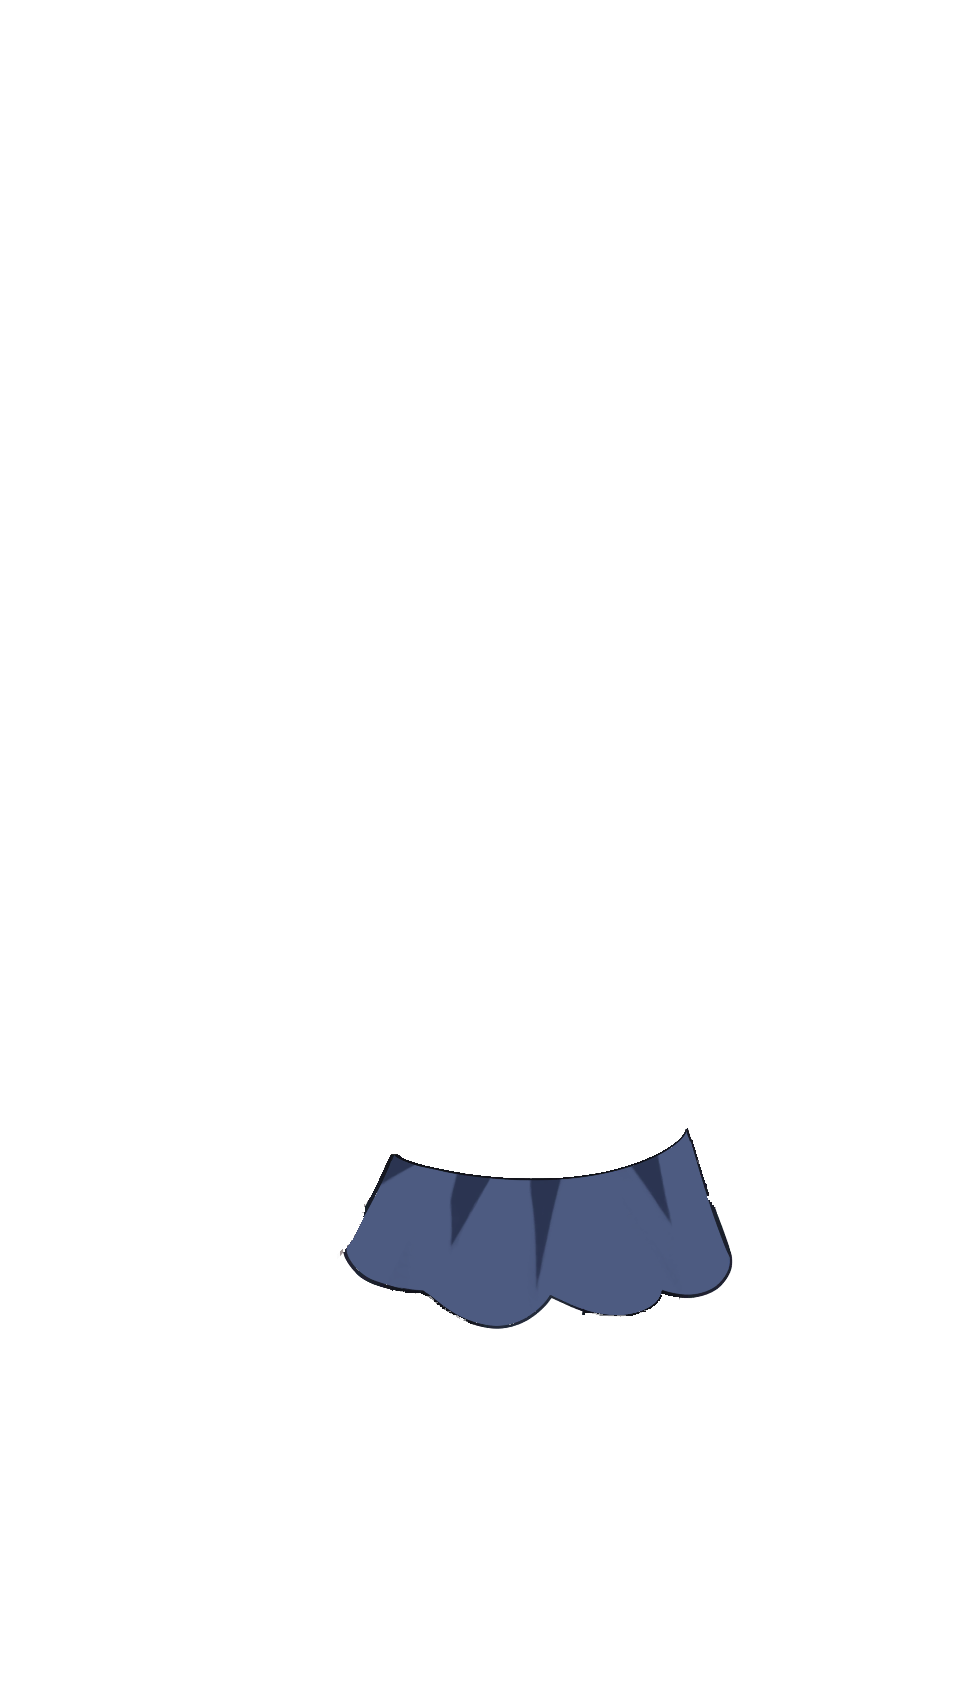
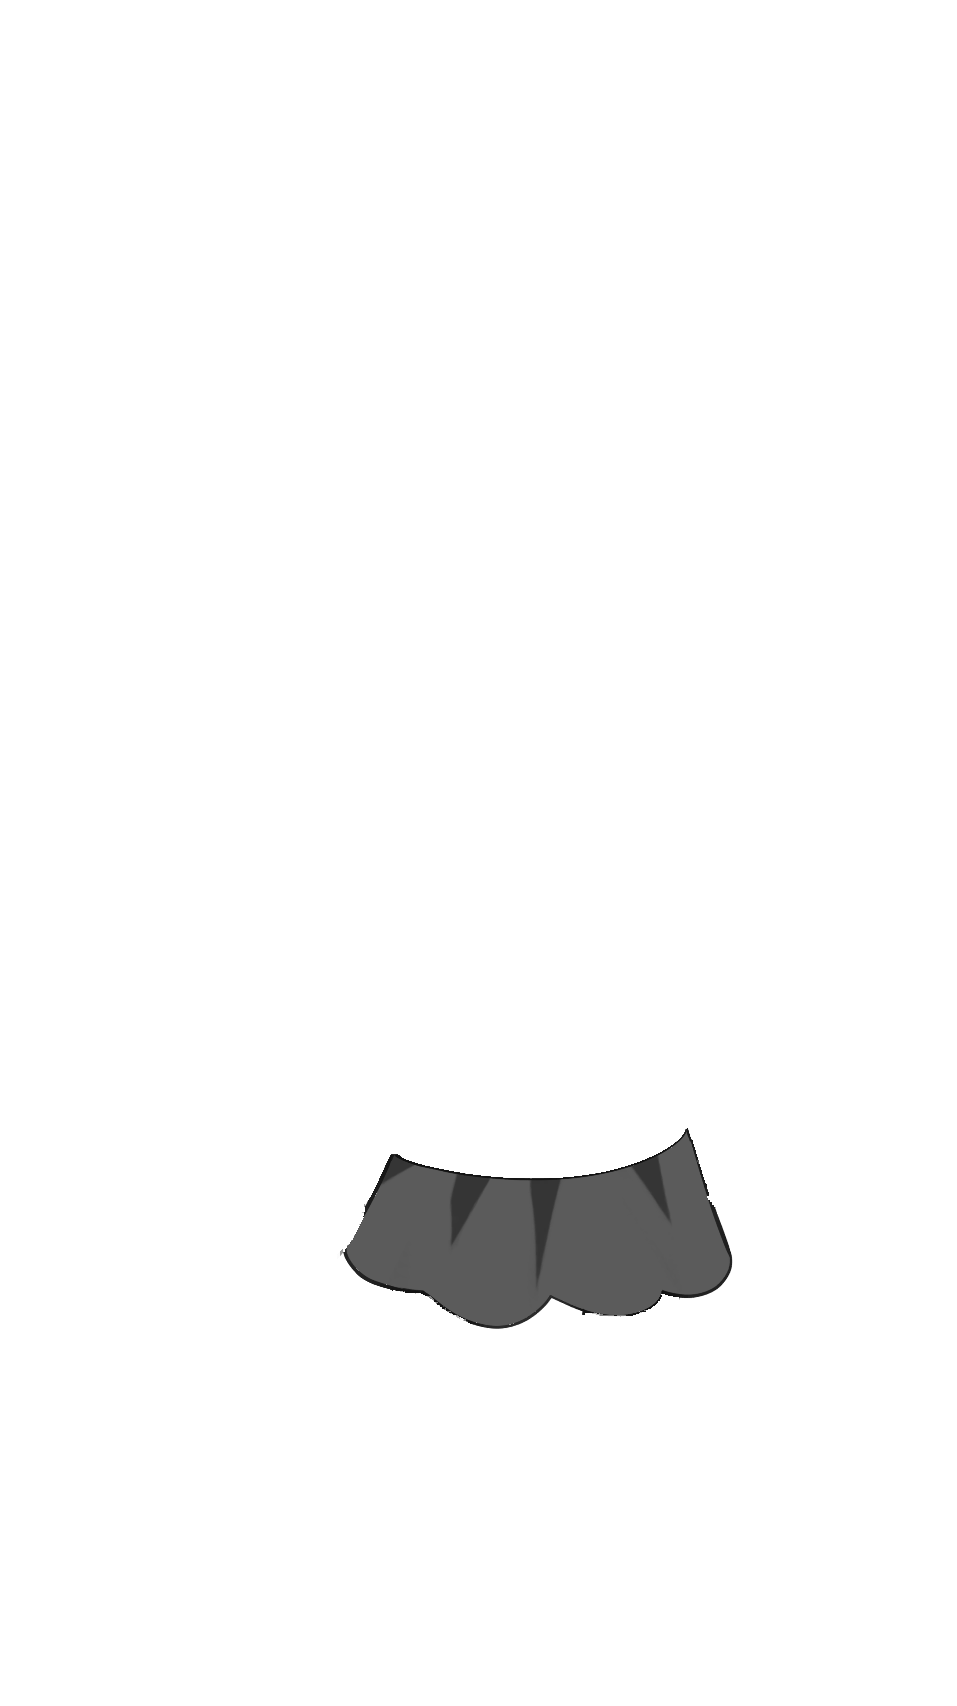
v0.0.2 release code

Changed region(s): [[0.3636, 0.6524, 0.7576, 0.7767]]

diff --git a/necov2.py b/necov2.py
@@ -1,5 +1,7 @@
+#!/usr/bin/python
+
 from random import randint
-import cv2
+import cv2, sys
 
 # TODO!
 """
@@ -9,14 +11,52 @@ add custom colors mode
 
 I = 0
 
-print("Necoarc generator v0.0.1")
+print("Necoarc generator v0.0.2")
 print()
-number = int(input("Number: "))
+print(" Mode: ")
+print(" 1) Random")
+print(" 2) Custom")
+modch = input("Mode: ")
+
+if modch=="1":
+    number = int(input("Number: "))
+elif modch=="2":
+    number = 1
+    boots = input("Boots: ")
+    hair = input("Hair: ")
+    hair_sub = input("Hair sub: ")
+    left_eye = input("Left eye: ")
+    right_eye = input("Right eye: ")
+    shirt = input("Shirt: ")
+    skirt = input("Skirt: ")
+else:
+    sys.exit(0)
+
 print("Wait...")
+
 for i in range(number):
     newarc = cv2.imread("input/body.png")
     for part in ["boots", "hair", "hair_sub", "left_eye", "right_eye", "shirt", "skirt"]:
-        cr, cg, cb = (randint(0,255), randint(0,255), randint(0,255))
+        if modch=="1":
+            cr, cg, cb = (randint(0,255), randint(0,255), randint(0,255))
+        elif modch=="2":
+            if part=="boots":
+                curcolors = boots.split(" ")
+            elif part=="hair":
+                curcolors = hair.split(" ")
+            elif part=="hair_sub":
+                curcolors = hair_sub.split(" ")
+            elif part=="left_eye":
+                curcolors = left_eye.split(" ")
+            elif part=="right_eye":
+                curcolors = right_eye.split(" ")
+            elif part=="shirt":
+                curcolors = shirt.split(" ")
+            elif part=="skirt":
+                curcolors = skirt.split(" ")
+            cr = int(curcolors[0])
+            cg = int(curcolors[1])
+            cb = int(curcolors[2])
         picture = cv2.imread("input/" + part + ".png")
         if cr+cg+cb!=0:
             height, width = tuple(picture.shape[1::-1])
@@ -24,7 +64,7 @@ for i in range(number):
                 for y in range(height):
                     r, g, b = picture[x, y]
                     if r!=0 and g!=0 and b!=0:
-                        picture[x, y] = cr-r, cg-g, cb-b
+                        picture[x, y] = r-cr, g-cg, b-cb
         newarc = cv2.add(newarc, picture)
     cv2.imwrite('output/' + str(I+1) + '.png', newarc)
     I += 1
